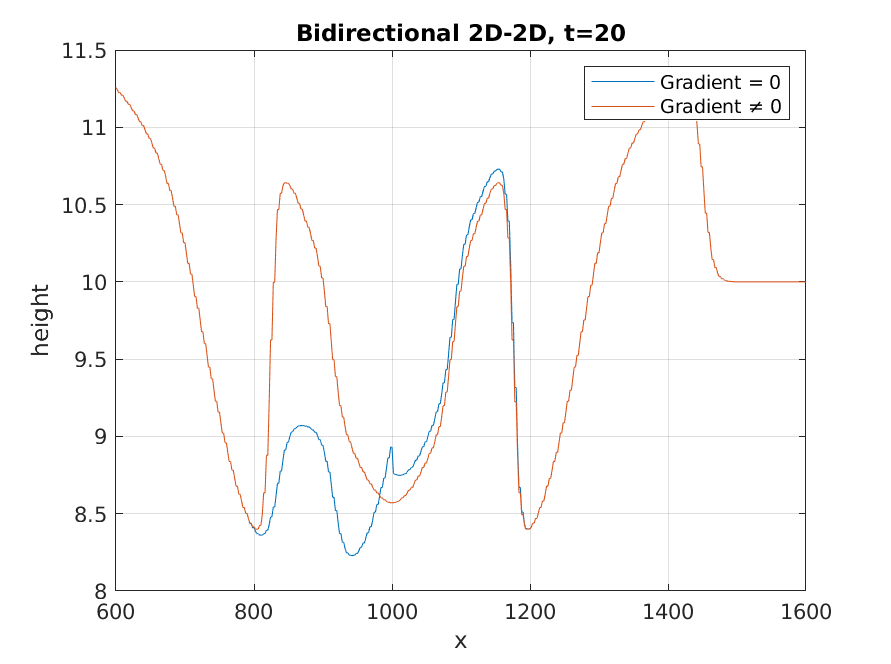
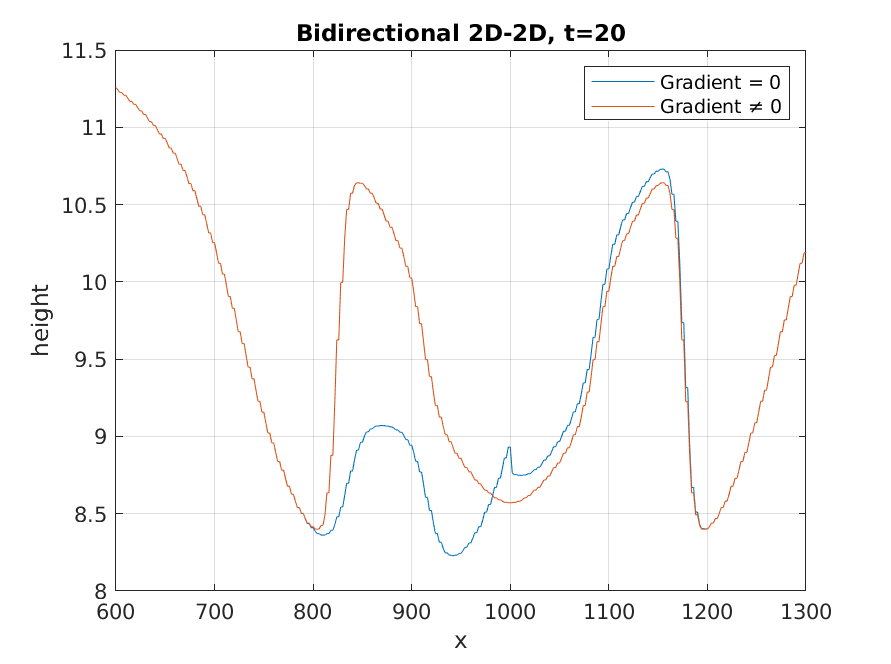
fix graph

diff --git a/Resources/Images/plot_data.m b/Resources/Images/plot_data.m
@@ -28,7 +28,7 @@ h_bidi_g_bueno = bidirectionalArr_g_bueno(:, 1);
 
 figure
 plot(x, h_bidi_g_0, x, h_bidi_g_bueno)
-axis([600, 1600, 8, 11.5])
+axis([600, 1300, 8, 11.5])
 grid on
 title('Bidirectional 2D-2D, t=20')
 xlabel('x')
